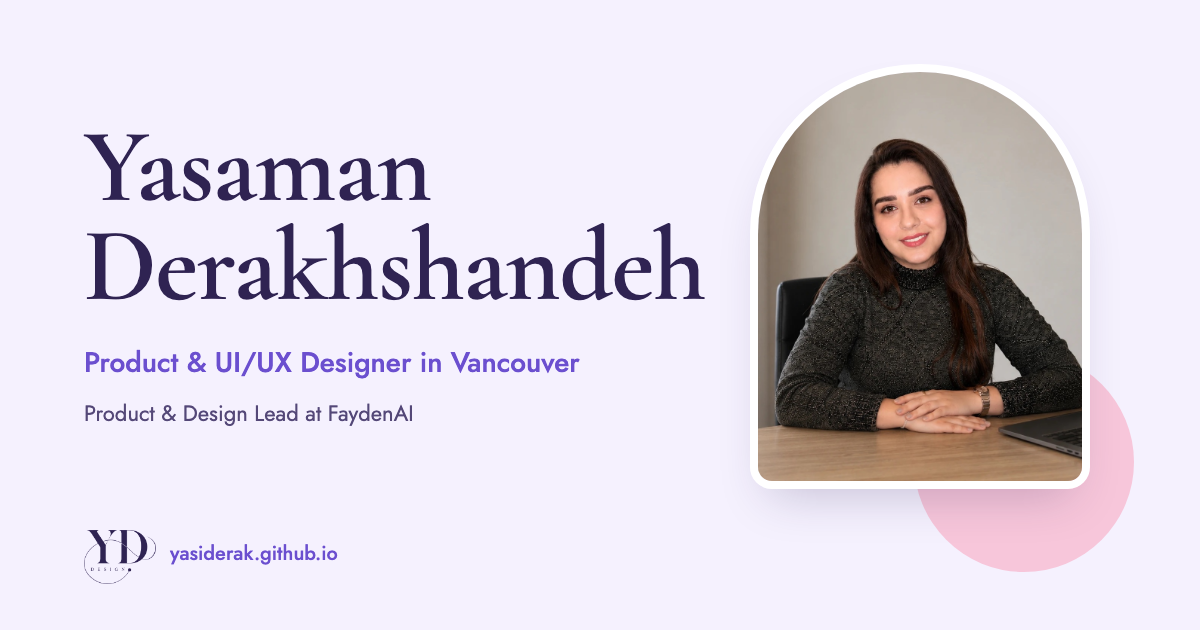
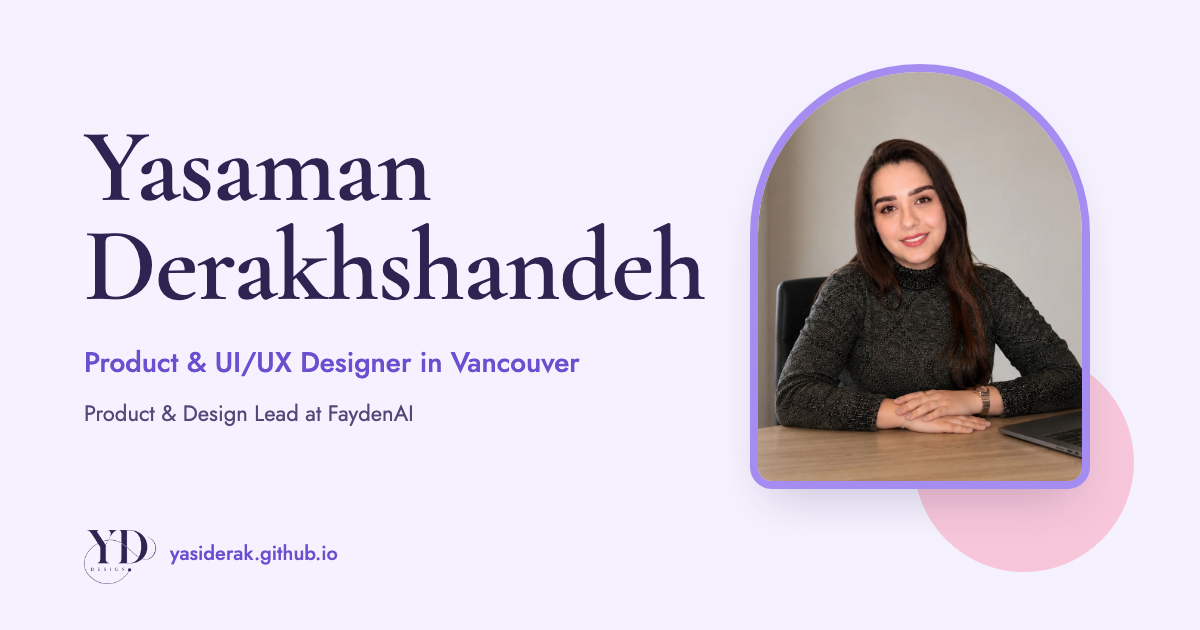
Violet frame around the hero portrait

Changed region(s): [[0.6167, 0.2413, 0.925, 0.7841], [0.6475, 0.0905, 0.8633, 0.2413], [0.8633, 0.181, 0.8942, 0.2714]]

diff --git a/src/components/Hero.jsx b/src/components/Hero.jsx
@@ -10,7 +10,7 @@ function ArchPortrait({ src }) {
         className="hero-bloom absolute -bottom-6 -right-8 aspect-square w-[62%] rounded-full bg-pink"
       />
       <div
-        className="relative aspect-[4/5] overflow-hidden border-[6px] border-white bg-lilac-200 shadow-[var(--shadow-lift)]"
+        className="relative aspect-[4/5] overflow-hidden border-[6px] border-violet bg-lilac-200 shadow-[var(--shadow-lift)]"
         style={{ borderRadius: '50% 50% 1.25rem 1.25rem / 40% 40% 1.25rem 1.25rem' }}
       >
         {src && <img src={src} alt={`Portrait of ${profile.name}`} decoding="async" className="h-full w-full object-cover" />}
